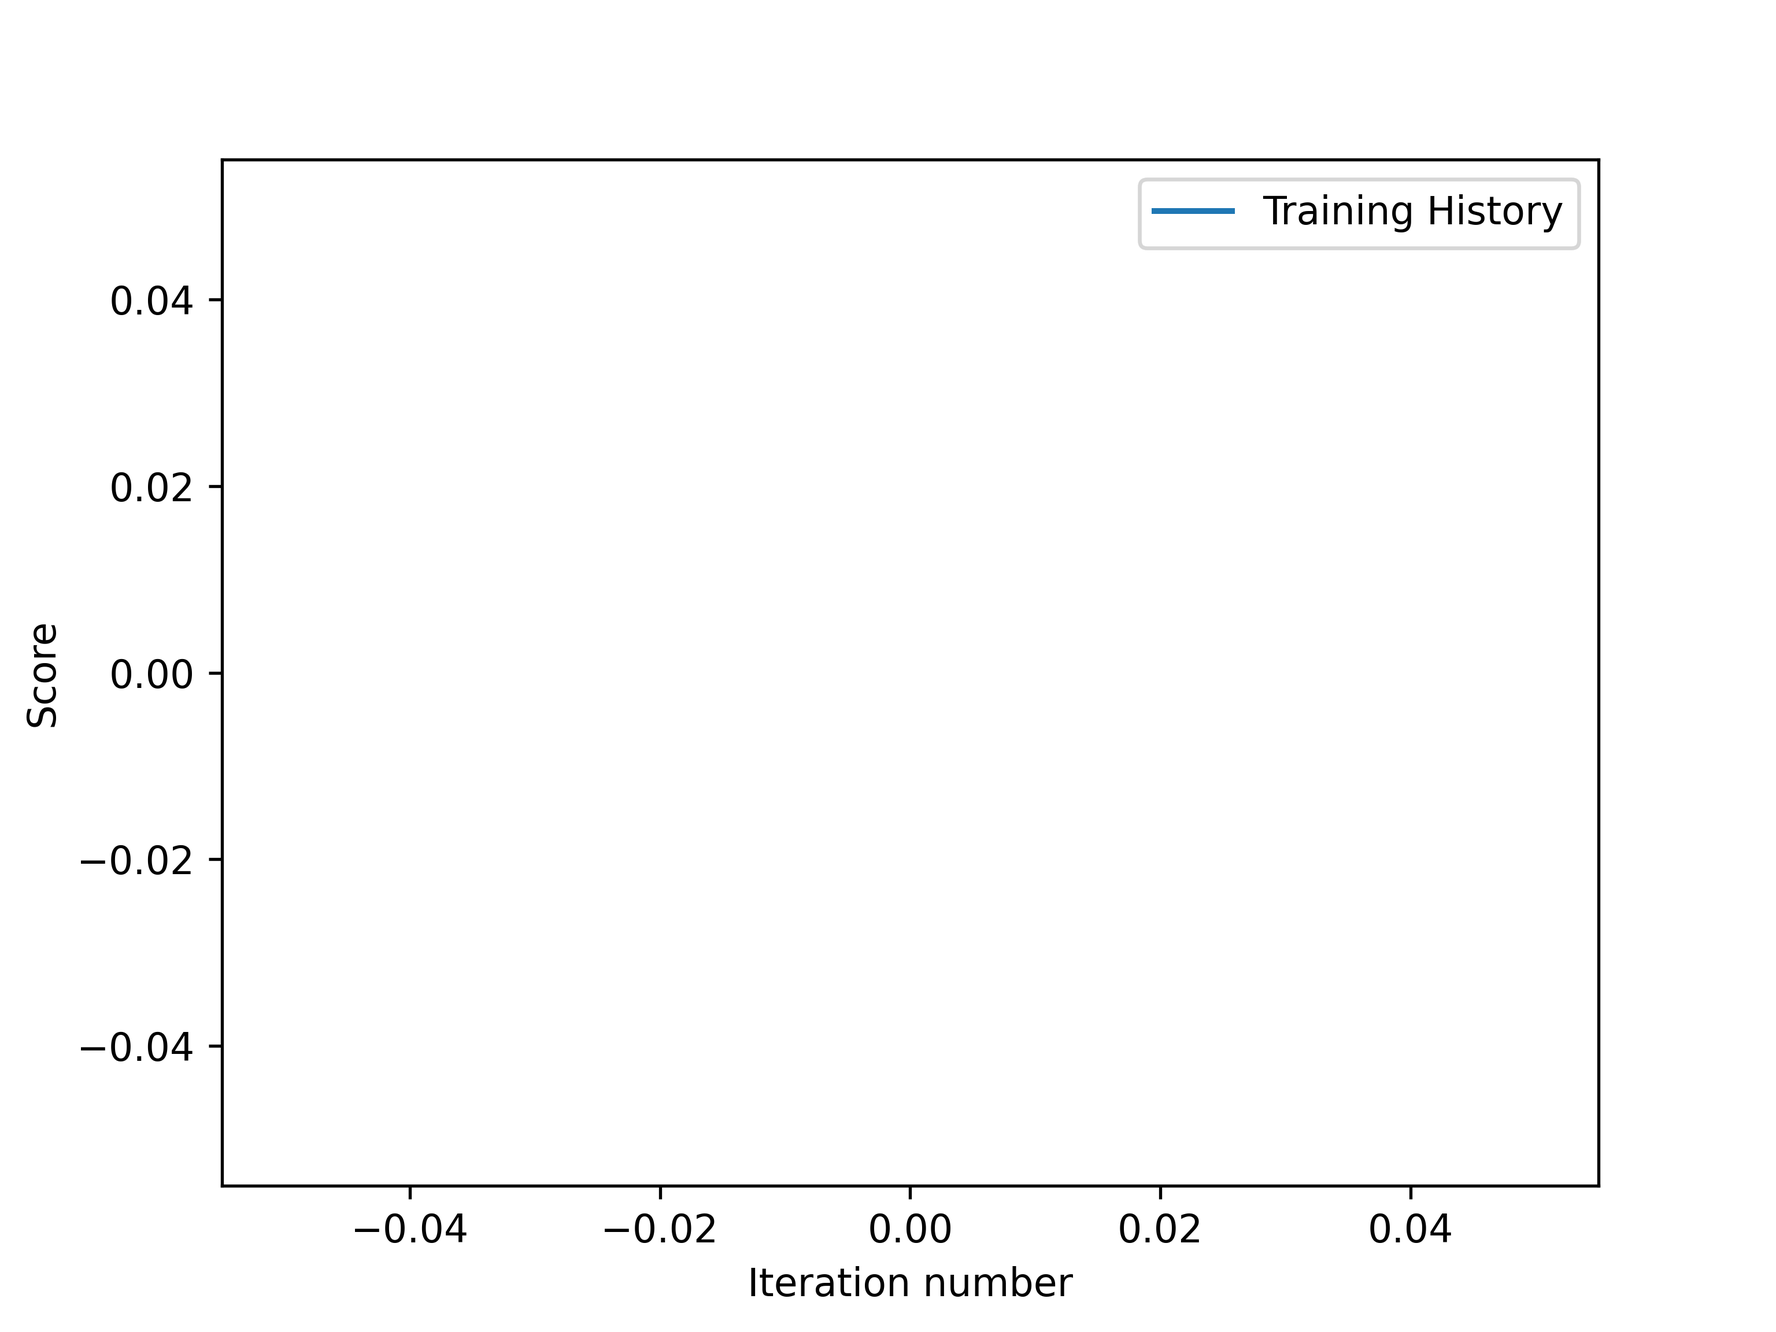
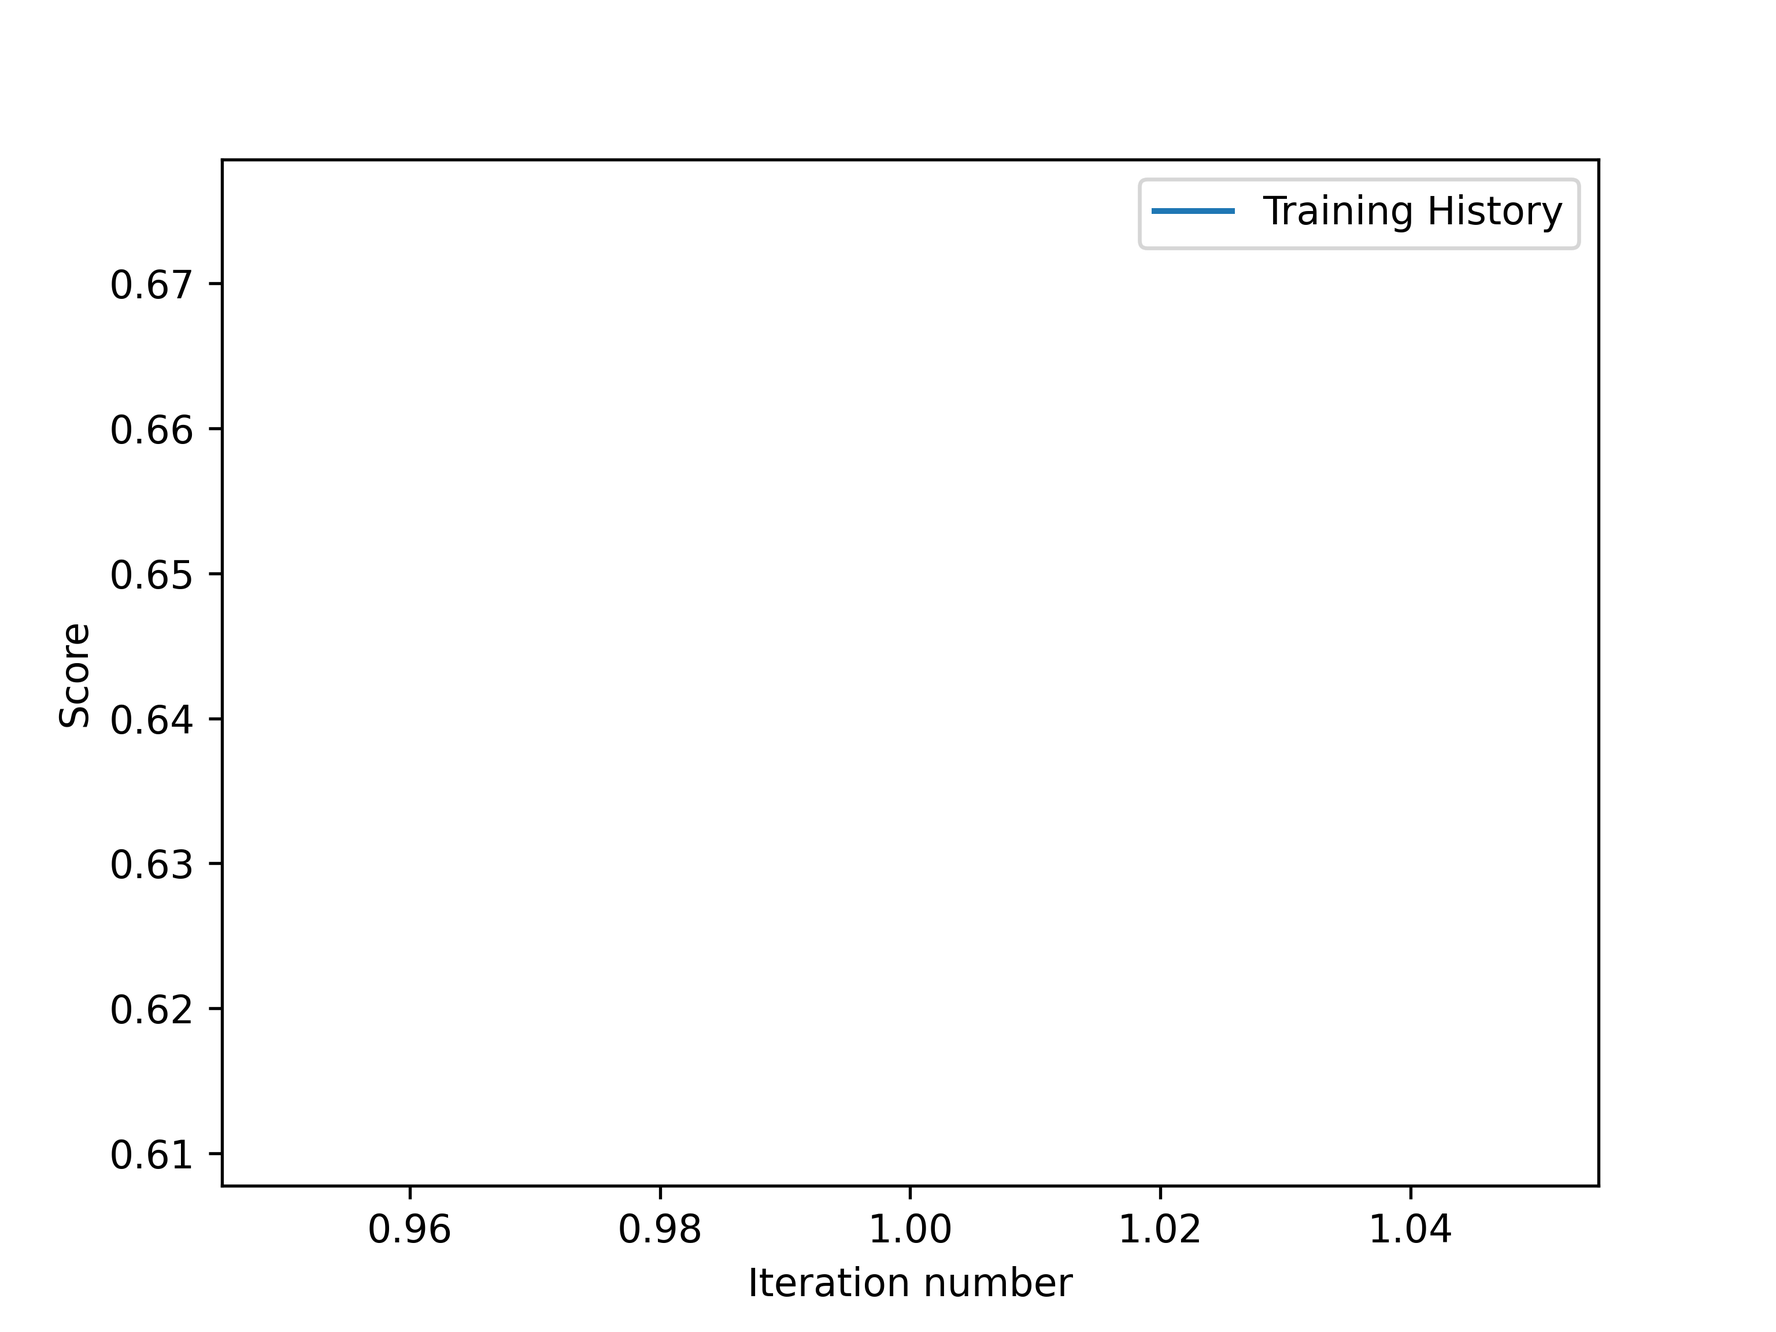
N-feature input now supported

diff --git a/symreg/SymRegLogic.py b/symreg/SymRegLogic.py
@@ -32,21 +32,16 @@ class Board():
 
     def __init__(self, n=3):
         "Set up initial board configuration."
-        if len(Board.data[0]) == 2:
-            self.__operators = ['+', '-', '*', 'cos', 'x', 'const', 'grad']
-            self.init_legal = len(self.__operators)
-            self.__operators_float = [sum(ord(i) for i in j) for j in self.__operators] #[43, 45, 42, 325, 120]
-            self.legal_moves_dict = {'+' : ['cos', 'x', 'const'], '-' : ['cos', 'x', 'const'], '*' : ['cos', 'x', 'const'], 'cos' : ['x', 'const'], 'x' : ['+', '-', '*', 'cos', 'const'], 'const': ['+', '-', '*', 'cos', 'x'], 'grad': ['x']}
-        else:
-            self.__input_vars = [f'x{i}' for i in range(len(Board.data[0])-1)]
-            self.__multi_var_dict = {key:value for key,value in zip(self.__input_vars, [self.__input_vars + ['+', '-', '*', 'cos', 'const'] for i in self.__input_vars])}
-            self.__operators = ['+', '-', '*', 'cos'] + self.__input_vars + ['const', 'grad']
-            self.init_legal = len(self.__operators)
-            self.__operators_float = [sum(ord(i) for i in j) for j in self.__operators]
-            self.legal_moves_dict = {'+' : ['cos', 'const'], '-' : ['cos', 'const'], '*' : ['cos', 'const'], 'cos' : ['const'], 'const': ['+', '-', '*', 'cos'], 'grad': []}
-            for i in self.legal_moves_dict:
-                self.legal_moves_dict[i] += self.__input_vars
-            self.legal_moves_dict.update(self.__multi_var_dict)
+        self.__num_features = len(Board.data[0])-1
+        self.__input_vars = [f'x{i}' for i in range(self.__num_features)]
+        self.__multi_var_dict = {key:value for key,value in zip(self.__input_vars, [self.__input_vars + ['+', '-', '*', 'cos', 'const'] for i in self.__input_vars])}
+        self.__operators = ['+', '-', '*', 'cos'] + self.__input_vars + ['const', 'grad']
+        self.init_legal = len(self.__operators)
+        self.__operators_float = [sum(ord(i) for i in j) for j in self.__operators]
+        self.legal_moves_dict = {'+' : ['cos', 'const'], '-' : ['cos', 'const'], '*' : ['cos', 'const'], 'cos' : ['const'], 'const': ['+', '-', '*', 'cos'], 'grad': []}
+        for i in self.legal_moves_dict:
+            self.legal_moves_dict[i] += self.__input_vars
+        self.legal_moves_dict.update(self.__multi_var_dict)
         
         self.__operators_dict = {operator:name for (operator, name) in zip(self.__operators_float, self.__operators)}
         self.__operators_inv_dict = {name:operator for (operator, name) in zip(self.__operators_float, self.__operators)}
@@ -58,7 +53,7 @@ class Board():
 #        print(self.__operators, self.init_legal, self.__operators_float, self.legal_moves_dict, self.__operators_dict, self.__operators_inv_dict, sep = "\n")
 
     # add [][] indexer syntax to the Board
-    def __getitem__(self, index): 
+    def __getitem__(self, index):
         return self.__operators_float[index]
 
     def get_legal_moves(self):
@@ -68,7 +63,7 @@ class Board():
             print("ok, that's wierd.")
             return self.__operators_float
         if not np.any(self.pieces): #If all pieces are 0. At the beginning, all pieces are 0 (i.e. false), so the legal moves are '+', '-', 'cos', 'x', 'const', and 'grad', but not '*'
-            return [1, 1, 0, 1] + [1]*(len(Board.data[0])-1) + [1, 1]
+            return [1, 1, 0, 1] + [1]*(self.__num_features) + [1, 1]
         
         curr_move = np.where(self.pieces==0)[0][0]
         
@@ -96,14 +91,16 @@ class Board():
             
             expression_str = ' '.join([self.__operators_dict[i] for i in self.pieces])
             num_consts = expression_str.count("const")
-            x = symbols('x') #TODO: Add arbitrary amount of input terms -> multivariate! (v.s. univariate)
+            x = symbols(f'x(:{self.__num_features})')
+            input_vars = [f"x{i}" for i in range(self.__num_features)]
+            temp_dict = {key:value for (key,value) in zip(input_vars, x)} #So sympy knows that x0, x1, ..., xN are input variables
             transformations = (standard_transformations + (implicit_multiplication_application,))
-            X, Y = Board.data[:, 0], Board.data[:, 1]
+            X, Y = Board.data[:, :self.__num_features], Board.data[:, -1]
             
-            if num_consts:
+            if num_consts: #If there are "consts" in the expression that need to be determined/optimized
                 y = symbols(f'y(:{num_consts})')
                 consts = [f"y{i}" for i in range(num_consts)]
-                temp_dict = {key:value for (key,value) in zip(consts, y)}
+                temp_dict.update({key:value for (key,value) in zip(consts, y)})
                 temp_dict.update({"grad": grad})
                 for i in range(num_consts):
                     expression_str = expression_str.replace("const", f"y{i}", 1)
@@ -115,7 +112,7 @@ class Board():
                         break
                     except:
                         if not first:
-                            expression_str += " x"
+                            expression_str += " x0"
                             first = True
                         else:
                             expression_str = ' '.join(expression_str.split()[:-1])
@@ -123,49 +120,67 @@ class Board():
                 if not expression_str:
                     return 0
                 
-                model_selection = lambdify((x, *y), parsed_expr)
+                model_selection_str = str(parsed_expr)
+                for i in range(self.__num_features):
+                    model_selection_str = model_selection_str.replace(f"x{i}", f"x[{i}]")
+                func_str = f"""
+def model_selection(x, {', '.join(consts)}):
+    from numpy import cos, gradient as grad
+    return {model_selection_str}
+                """
+                
+                exec(func_str, globals(), lcls:=locals())
+                model_selection = lcls["model_selection"]
+                
                 #try to optimize parameters y0, y1, ..., yn
                 try:
-                    parameters, covariance = curve_fit(model_selection, X, Y, p0 = np.ones(num_consts))
+                    parameters, covariance = curve_fit(model_selection, X.T, Y, p0 = np.ones(num_consts))
                 #if it didn't work, set the parameters y0, y1, ..., yn to random values
                 except RuntimeError:
                     parameters = np.random.random(num_consts)
-                y_pred = model_selection(X, *parameters)
+                y_pred = model_selection(X.T, *parameters)
+                
                 if isinstance(y_pred, np.float64):
                     y_pred = np.full_like(Y, fill_value = y_pred)
-                loss = np.sum((y_pred-Y)**2)
+                try:
+                    loss = np.sum((y_pred-Y)**2)
+                    if np.isclose(loss, 0):
+                        raise TypeError
+                except:
+                    exit()
                 assert y_pred.shape == Y.shape, f"{y_pred.shape}, {Y.shape}"
-                                
+                
                 for i in range(num_consts):
                     expression_str = expression_str.replace(f"y{i}", f"{parameters[i]:0.3f}")
                 
                 
             else:
                 first = False
-                temp_dict = {"grad": grad}
+                temp_dict.update({"grad": grad})
                 while expression_str:
                     try:
                         parsed_expr = parse_expr(expression_str, transformations=transformations, local_dict = temp_dict)
                         break
                     except:
                         if not first:
-                            expression_str += " x"
+                            expression_str += " x0"
                             first = True
                         else:
                             expression_str = ' '.join(expression_str.split()[:-1])
                 
                 if not expression_str:
                     return 0
-                
                 model_selection = lambdify(x, parsed_expr)
                 
-                y_pred = model_selection(X)
+                y_pred = model_selection(*[X[:,i] for i in range(self.__num_features)])
                 if isinstance(y_pred, np.float64) or isinstance(y_pred, int):
                     y_pred = np.full_like(Y, fill_value = y_pred)
                 loss = np.sum((y_pred-Y)**2)
                 assert y_pred.shape == Y.shape, f"{y_pred.shape}, {Y.shape}"
-            
 
+#            print(model_selection.__code__.co_varnames)
+            for i in range(self.__num_features):
+                expression_str = expression_str.replace(f"x[{i}]", f"x{i}")
             if loss < Board.best_loss:
                 try:
                     Board.best_expression = parse_expr(expression_str, transformations=transformations, local_dict = temp_dict)
@@ -176,7 +191,8 @@ class Board():
                         float_pattern = r'-?\d+\.\d+'
                         floats_found = re.findall(float_pattern, expression_str)
                         new_expression = re.sub(float_pattern, r'(\g<0>)', expression_str)
-                        new_expression = new_expression.replace('x','(x)')
+                        for i in range(self.__num_features):
+                            new_expression = new_expression.replace(f'x{i}',f'(x{i})')
                         Board.best_expression = parse_expr(new_expression, transformations=transformations, local_dict = temp_dict)
                         print("fixed expression_str =", Board.best_expression)
                     except:
@@ -192,8 +208,7 @@ class Board():
                 
 
     def execute_move(self, move):
-        """Perform the given move on the board; 
+        """Perform the given move on the board;
         color gives the color pf the piece to play (1=white,-1=black)
         """
         self.pieces[np.where(self.pieces==0)[0][0]] = move
-

diff --git a/multi_dimensional_symreg_test.py b/multi_dimensional_symreg_test.py
@@ -15,19 +15,19 @@ log = logging.getLogger(__name__)
 coloredlogs.install(level='INFO')  # Change this to DEBUG to see more info.
 
 args = dotdict({
-    'numIters': 10,
-    'numEps': 10000,              # Number of complete self-play games to simulate during a new iteration.
-    'tempThreshold': 0,        
+    'numIters': 100000000,
+    'numEps': 10,              # Number of complete self-play games to simulate during a new iteration.
+    'tempThreshold': 15,
     'maxlenOfQueue': 200000,    # Number of game examples to train the neural networks.
-    'numMCTSSims': 10000,          # Number of games moves for MCTS to simulate.
+    'numMCTSSims': 25,          # Number of games moves for MCTS to simulate.
     'arenaCompare': 1,         # Number of games to play during arena play to determine if new net will be accepted.
-    'cpuct': 1,
+    'cpuct': 1, #Controls the exploration/exploitation trade-off. TODO: Maybe set a schedule for this, i.e., so that the first N episodes have a higher value to encourage exploration and then lower this value to encourage exploitation?
 
     'checkpoint': './temp/',
     'load_model': False,
     'load_folder_file': ('temp/','checkpoint_0.pth.tar'),
     'load_model_file': ('temp','temp.h5'),
-    'numItersForTrainExamplesHistory': np.inf,
+    'numItersForTrainExamplesHistory': 20,
     'bestScore': 0
 
 })
@@ -36,7 +36,7 @@ def main():
     try:
         log.info('Loading data...')
         X_data = 2 * np.random.randn(100, 5)
-        Y_data = 2.5382 * np.cos(X_data[:, 3]) + X_data[:, 0] ** 2 - 0.5
+        Y_data = 2.5382 * np.cos(X_data[:, 3]) + X_data[:, 0] ** 2 - 0.5 #2.5382 cos(x_3) + x_0^2 - 0.5
         Y_data = Y_data.reshape(-1,1)
         Board.data = np.hstack((X_data,Y_data))
         
@@ -68,22 +68,18 @@ def main():
         print(f"best loss = {Board.best_loss}")
         save = input("Save best expression and loss? (y/n): ")
         if 'y' in save.lower():
-            with open("best_expression.txt", "w") as f:
+            with open("best_multi_dim_expression.txt", "w") as f:
                 f.write(f"{Board.best_expression}\n")
                 f.write(f"{Board.best_loss}\n")
-                x_vals = X_data
-                x = sp.symbols('x')
-                best_func = sp.lambdify(x, Board.best_expression)
-                y_vals = best_func(x_vals.flatten())
-                
-                plt.plot(x_vals, y_vals, label = "$"+sp.latex(Board.best_expression)+"$")
-                plt.plot(Board.data[:,0], Board.data[:,1], label = "Original data")
-                plt.xlabel("x")
-                plt.ylabel("y")
-                plt.legend()
-                plt.title("Best Expression Gradient Test")
-                plt.savefig("Grad_Test_Best_Expression.png", dpi = 5*96)
                 print("Saved!")
+            print("Saving Model History")
+            plt.plot(range(1, 1+len(Coach.scores)), Coach.scores, label = "Training History")
+            plt.xlabel("Iteration number")
+            plt.ylabel("Score")
+            plt.legend()
+            plt.savefig("Model_History_Multi_Dimension.png", dpi = 5*96)
+            plt.close()
+            print("Model History Saved")
 
 if __name__ == "__main__":
     main()

diff --git a/symreg/keras/symregNNet.py b/symreg/keras/symregNNet.py
@@ -7,6 +7,9 @@ from tensorflow.keras.models import *
 from tensorflow.keras.layers import *
 from tensorflow.keras.optimizers import *
 from keras2tikzClone.model_to_tex import gen_tikz_from_model
+from sklearn.svm import SVR
+from sklearn.pipeline import make_pipeline
+from sklearn.preprocessing import StandardScaler
 
 """
 NeuralNet for the game of Symbolic Regression.
@@ -28,18 +31,20 @@ class symregNNet():
 
         # Adjust the convolutional layers for 1D data
         h_conv1 = Activation('relu')(BatchNormalization(axis=-1)(Conv1D(args.num_channels, 3, padding='same')(self.input_boards)))  # batch_size x board x num_channels
-        h_conv2 = Activation('relu')(BatchNormalization(axis=-1)(Conv1D(args.num_channels, 3, padding='same')(h_conv1)))  # batch_size x board x num_channels
-        h_conv3 = Activation('relu')(BatchNormalization(axis=-1)(Conv1D(args.num_channels, 3, padding='same')(h_conv2)))  # batch_size x board x num_channels
-        h_conv4 = Activation('relu')(BatchNormalization(axis=-1)(Conv1D(args.num_channels, 3, padding='valid')(h_conv3)))  # batch_size x (board-2) x num_channels
+#        h_conv2 = Activation('relu')(BatchNormalization(axis=-1)(Conv1D(args.num_channels, 3, padding='same')(h_conv1)))  # batch_size x board x num_channels
+#        h_conv3 = Activation('relu')(BatchNormalization(axis=-1)(Conv1D(args.num_channels, 3, padding='same')(h_conv2)))  # batch_size x board x num_channels
+#        h_conv4 = Activation('relu')(BatchNormalization(axis=-1)(Conv1D(args.num_channels, 3, padding='valid')(h_conv3)))  # batch_size x (board-2) x num_channels
 
-        h_conv4_flat = Flatten()(h_conv4)       
-        s_fc1 = Dropout(args.dropout)(Activation('relu')(BatchNormalization(axis=1)(Dense(1024)(h_conv4_flat))))  # batch_size x 1024
-        s_fc2 = Dropout(args.dropout)(Activation('relu')(BatchNormalization(axis=1)(Dense(512)(s_fc1))))          # batch_size x 1024
-        self.pi = Dense(self.action_size, activation='softmax', name='pi')(s_fc2)   # batch_size x self.action_size
-        self.v = Dense(1, activation='softmax', name='v')(s_fc2)                    # batch_size x 1
+        h_conv1_flat = Flatten()(h_conv1)
+        s_fc1 = Dropout(args.dropout)(Activation('relu')(BatchNormalization(axis=1)(Dense(1024)(h_conv1_flat))))  # batch_size x 1024
+#        s_fc2 = Dropout(args.dropout)(Activation('relu')(BatchNormalization(axis=1)(Dense(512)(s_fc1))))          # batch_size x 1024
+        self.pi = Dense(self.action_size, activation='softmax', name='pi')(s_fc1)   # batch_size x self.action_size
+        self.v = Dense(1, activation='softmax', name='v')(s_fc1)                    # batch_size x 1
 
         self.model = Model(inputs=self.input_boards, outputs=[self.pi, self.v])
         self.model.compile(loss=['categorical_crossentropy','mean_squared_error'], optimizer=Adam(args.lr))
+        
+#        self.clf_value = make_pipeline(StandardScaler(), SVR(gamma='auto'))
         print(gen_tikz_from_model(self.model))
         self.model.summary()
 

diff --git a/symreg/keras/NNet.py b/symreg/keras/NNet.py
@@ -23,9 +23,9 @@ Based on (copy-pasted from) the NNet by SourKream and Surag Nair.
 """
 
 args = dotdict({
-    'lr': 0.001,
+    'lr': 0.01,
     'dropout': 0.3,
-    'epochs': 10,
+    'epochs': 100,
     'batch_size': 64,
     'cuda': False,
     'num_channels': 512,
@@ -36,6 +36,7 @@ class NNetWrapper(NeuralNet):
         self.nnet = onnet(game, args)
         self.board = game.getBoardSize()
         self.action_size = game.getActionSize()
+        self.trained = False
 
     def train(self, examples):
         """
@@ -46,6 +47,9 @@ class NNetWrapper(NeuralNet):
         target_pis = np.asarray(target_pis)
         target_vs = np.asarray(target_vs)
         self.nnet.model.fit(x = input_boards, y = [target_pis, target_vs], batch_size = args.batch_size, epochs = args.epochs)
+        print(input_boards.shape, target_vs.shape)
+#        self.nnet.clf_value.fit(input_boards, target_vs)
+        self.trained = True
 
     def predict(self, board):
         """
@@ -59,6 +63,8 @@ class NNetWrapper(NeuralNet):
 
         # run
         pi, v = self.nnet.model.predict(board, verbose=False) #pi is the NN predicted probability of selecting each possible action given the state s
+#        if self.trained:
+#            v = self.nnet.clf_value.predict(board)
 
         #print('PREDICTION TIME TAKEN : {0:03f}'.format(time.time()-start))
         return pi[0], v[0]

diff --git a/main_symreg.py b/main_symreg.py
@@ -21,7 +21,7 @@ args = dotdict({
     'maxlenOfQueue': 200000,    # Number of game examples to train the neural networks.
     'numMCTSSims': 25,          # Number of games moves for MCTS to simulate.
     'arenaCompare': 1,         # Number of games to play during arena play to determine if new net will be accepted.
-    'cpuct': 10, #Controls the exploration/exploitation trade-off. TODO: Maybe set a schedule for this, i.e., so that the first N episodes have a higher value to encourage exploration and then lower this value to encourage exploitation?
+    'cpuct': 1, #Controls the exploration/exploitation trade-off. TODO: Maybe set a schedule for this, i.e., so that the first N episodes have a higher value to encourage exploration and then lower this value to encourage exploitation?
 
     'checkpoint': './temp/',
     'load_model': False,
@@ -68,7 +68,7 @@ def main():
                 f.write(f"{Board.best_expression}\n")
                 f.write(f"{Board.best_loss}\n")
                 x_vals = np.linspace(Board.data[:,0][0], Board.data[:,0][-1], 1000)
-                x = sp.symbols('x')
+                x = sp.symbols('x0')
                 best_func = sp.lambdify(x, Board.best_expression)
                 y_vals = best_func(x_vals)
                 plt.plot(x_vals, y_vals, label = "$"+sp.latex(Board.best_expression)+"$")

diff --git a/Coach_symreg.py b/Coach_symreg.py
@@ -107,10 +107,10 @@ class Coach():
 
             self.nnet.train(trainExamples)
             self.mcts.nnet = self.nnet
-            nmcts = MCTS(self.game, self.nnet, self.args)
+#            nmcts = MCTS(self.game, self.nnet, self.args)
 
             log.info('PITTING AGAINST PREVIOUS VERSION')
-            arena = Arena(lambda x: np.argmax(nmcts.getActionProb(x, temp=0)), self.game)
+            arena = Arena(lambda x: np.argmax(self.mcts.getActionProb(x, temp=0)), self.game)
             score = arena.playGames(self.args.arenaCompare)
 
             log.info(f'Score / Ideal: {score} / {self.args.arenaCompare}')
